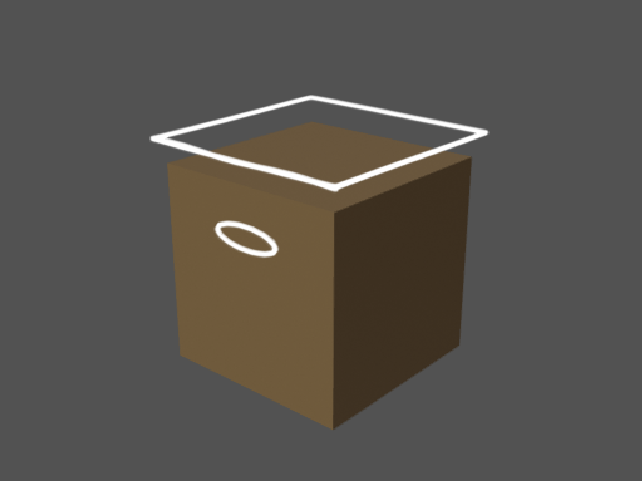
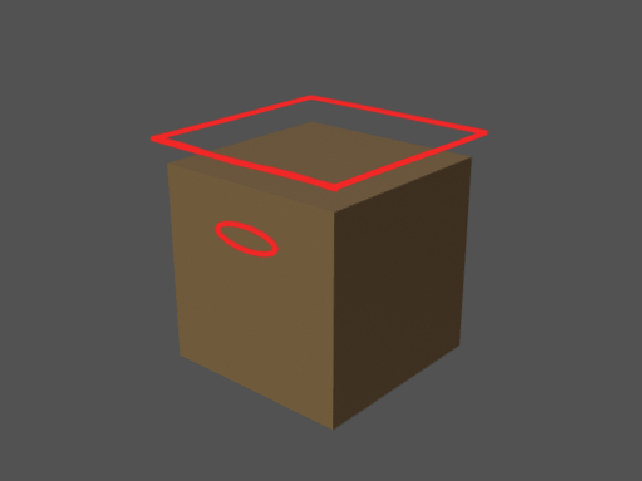
Draw sketch strokes in red
The sketch is a redline, so it should look like one, and white gets lost
on a pale model. New strokes take the new tint; layers an older file
holds keep their colours until a turn finishes or Clear. The images that
show strokes are reshot.

Changed region(s): [[0.2181, 0.2183, 0.6854, 0.4054], [0.4361, 0.1871, 0.7788, 0.3119], [0.3115, 0.4366, 0.4361, 0.5613]]

diff --git a/tests/blender/test_sketch.py b/tests/blender/test_sketch.py
@@ -42,7 +42,8 @@ class SketchTest(unittest.TestCase):
         layer = obj.data.layers[sketch.LAYER_NAME]
         self.assertFalse(layer.use_lights)
         self.assertEqual(layer.tint_factor, 1.0)
-        self.assertEqual(tuple(layer.tint_color), sketch.STROKE_COLOUR)
+        for got, want in zip(layer.tint_color, sketch.STROKE_COLOUR):
+            self.assertAlmostEqual(got, want, places=5)
 
     def test_reloading_replaces_strokes(self):
         sketch.load_strokes(bpy.context.scene, self.bundle.strokes)
@@ -113,6 +114,13 @@ class OlderFileTest(unittest.TestCase):
         self.obj = sketch.ensure_sketch_object(self.scene)
         add_stroke(self.obj, [(0, 0, 0), (1, 0, 0)], view=1, layer="free")
         add_stroke(self.obj, [(0, 0, 0), (0, 1, 0), (0, 2, 0)], view=1, layer="carve")
+
+    def test_older_layers_keep_their_colours(self):
+        white = (1.0, 1.0, 1.0)
+        self.obj.data.layers["free"].tint_color = white
+        sketch.ensure_sketch_layer(self.scene)
+        self.assertEqual(tuple(self.obj.data.layers["free"].tint_color), white)
+        self.assertLess(self.obj.data.layers[sketch.LAYER_NAME].tint_color[1], 0.1, "new strokes are red")
 
     def test_every_layer_is_read(self):
         self.assertEqual(sorted(len(s.points) for s in sketch.iter_strokes(self.obj)), [2, 3])

diff --git a/tests/blender/test_bundle.py b/tests/blender/test_bundle.py
@@ -153,10 +153,12 @@ class BundleTest(unittest.TestCase):
         x, y = views.to_pixel(self.view2, A_POINTS[4], 128, 96)
         self.assertAlmostEqual(patch_max(strokes, x, y, "alpha"), 0.5, delta=0.02, msg="its opacity")
         r, g, b, _a = patch_max(strokes, x, y, "rgb")
-        self.assertGreater(min(r, g, b), 0.9, "strokes are white")
+        self.assertGreater(r, 0.9, "strokes are red")
+        self.assertLess(max(g, b), 0.3, "strokes are red")
         row, col = overlay.shape[0] - 1 - int(y), int(x)
-        self.assertGreater(overlay[row, col, :3].sum(), overlay[row + 8, col, :3].sum() + 0.3,
-                           "over the render they lighten what they cross")
+        self.assertGreater(overlay[row, col, 0] - overlay[row, col, 1],
+                           overlay[row + 8, col, 0] - overlay[row + 8, col, 1] + 0.2,
+                           "over the render they redden what they cross")
 
     def test_scene_is_untouched(self):
         before = render.snapshot_settings(self.scene)

diff --git a/tests/blender/test_render.py b/tests/blender/test_render.py
@@ -101,8 +101,9 @@ class RenderTest(unittest.TestCase):
         strokes = render.load_pixels(data["strokes_path"])
         solid = strokes[strokes[..., 3] > 0.95][:, :3]
         self.assertGreater(len(solid), 20)
-        # Unlit strokes come out at full white, not darkened by Workbench lighting.
-        self.assertGreater(solid.min(axis=1).max(), 0.9)
+        # Unlit strokes come out at their full red, not darkened by Workbench lighting.
+        self.assertGreater(solid[:, 0].max(), 0.9)
+        self.assertLess(solid[:, 1:].max(), 0.3)
 
     def test_scene_is_left_unchanged(self):
         before = scene_state(self.scene)

diff --git a/whittle/addon/sketch.py b/whittle/addon/sketch.py
@@ -35,7 +35,9 @@ AMEND_ATTRIBUTE = "whittle_amend"
 FILL_ATTRIBUTE = "fill_id"
 # Built-in: a stroke with this set draws no outline.
 HIDE_ATTRIBUTE = "hide_stroke"
-STROKE_COLOUR = (1.0, 1.0, 1.0)
+# Redline red, in linear scene colour: it stays red over wood, grey clay and
+# the agent's grey backdrop.
+STROKE_COLOUR = (0.9, 0.02, 0.02)
 POLL_INTERVAL = 0.25
 # Every layer keeps its one drawing keyed at Blender's lowest frame, so the
 # sketch is the same wherever the playhead is and the draw tool, which paints

diff --git a/whittle/addon/render.py b/whittle/addon/render.py
@@ -21,7 +21,7 @@ from . import sketch as sketch_strokes
 CAMERA_NAME = "Whittle Render Camera"
 WIRE_MODIFIER = "_whittle_wire"
 # Renders are transparent; agent-facing images get a flat mid-grey backdrop so
-# white strokes and pale materials stay visible.
+# pale materials, and the white strokes of older files, stay visible.
 BACKGROUND = (0.32, 0.32, 0.32)
 # The render tool's own bounds (its schema says the same).
 MIN_SIZE = 64

diff --git a/docs/decisions.md b/docs/decisions.md
@@ -68,6 +68,7 @@ Resolutions of the open questions in `design.md` §10, plus environment facts.
 - **One style guide, in a file** (2026-11-05): a single setting, Style Notes, holds the path to a `.md` or `.txt` file, and replaces the Palette, Bevel Style and Style Notes text fields. Empty means no guide, and the agent chooses. Why: the three overlapped, so nobody could tell what went where, and the docs did not settle it. A text box also lives in one `.blend`, and real work spans many: a large game has a general art style, different guidelines per faction and further splits per culture, across hundreds of `.blend` files and some twenty style notes that all reference many of the same files. A file on disk is written once and shared, and `//` paths let a project folder move. It stays a session setting, so a preference can set the default and a file its own. The guide reaches the agent as the user's preferences for the file, applied with judgement, not as rules; since it is a plain file that may be shared, the system prompt also says it speaks to the look only. The new key, `style_file`, means old inline text is never read as a path. Old values are not migrated: old preferences and scene keys are ignored, and files and bundles holding `palette`, `bevel_style` or `style_notes` still load.
 - **Guide paths survive a repository's moves** (2026-11-05): a backslash in a relative path, `//` or an `@` import, reads as a separator on every platform, and a save into another folder rewrites each scene's `//` Style Notes to name the same file. Why: the `.blend` files and guides of a project live in one repository, cloned at different paths on Windows and Linux, and Blender only remaps its own path fields. A rooted path (drive, UNC, `\folder`) is left alone: `\\server` made `//server` would read as relative to the `.blend`. The cost is that a relative path cannot name a file with a backslash in its name, and a rewrite that would write one, from a folder so named on Linux or macOS, gives the absolute path instead. The rewrite is string maths from the old and new folders and never reads the guide, since the path comes from the file and saving is no reason to go where it leads; only the two `.blend` folders have their symlinks resolved, because a read's `..` walks up from a folder's real place, where Blender's own remap stays textual. An undo or redo across the Save As rewrites the path again, unlike an image path: a step from before it holds the old text, and counted from the new folder that can name another project's guide with no warning, and what it names goes to the API. Stamps beside the text say which folder it counts from, and they are for the session only, as a stamp read from a file could not tell an undo from a repository cloned elsewhere. A copy gets the new text and the open file keeps its own, the way `relative_remap` treats images. The preferences' `//` path stays: it is relative to whichever `.blend` is open. The agent's restart check ignores the path and compares the guide's text, which is all the agent gets, so a Save As restarts nothing. A move outside Blender cannot be followed: no save happens, and a `.blend` opened from a new place looks the same as a repository cloned elsewhere.
 - **Imports are whole lines** (2026-11-05): a guide imports another with a line holding only `@path`, after trimming whitespace, and never inside a fenced code block. A path with a space in it has to end in `.md` or `.txt`. Why: guides are prose, and prose has email addresses and handles in it; an `@` anywhere in a line would turn those into imports, each one a false warning or worse, a file sent that nobody asked for. A whole line also says exactly where the text goes: it replaces the line, so the author controls the order. Paths are relative to the file importing, so a folder of guides works from any `.blend`. A file reached twice counts the first time only, so a shared base is not repeated, which also ends import loops with no case of their own.
+- **A lone `@word` line warns** (2026-11-06): a line holding nothing but `@word`, such as a handle alone on a line, is read as an import like any other, and warns that it was refused, since `word` is not a `.md` or `.txt` file. Why: the line has exactly the shape of an import, so telling the two apart would be a guess, and staying quiet would hide a mistyped import, which leaves part of the guide unsent. A warning costs a look and sends nothing.
 - **Only `.md` and `.txt` load, 128 KiB in all** (2026-11-05): judged on the path with its symlinks resolved, regular files only, and the files loaded are listed in the agent popover. Why: a `.blend` stores the path, and what loads goes to the API, so a file from someone else could point at a private file on the user's machine, directly or through an `@` line, and send its contents with the next turn. Private keys and credentials do not end in `.md`, and a `notes.md` link to one is refused because the check runs after the link is followed. This narrows the risk, and does not end it: a private `.md` file can still load, which is why the list shows everything being sent. The cap bounds what a guide can add to every turn; past it, loading stops with a warning.
 - **A guide never fails a turn** (2026-11-05): a missing or unreadable file or a refused import, the top-level file included, is a warning in the sidebar and one line telling the agent that part of the guide is missing; the turn runs with what loaded. Why: a guide is guidance, and a moved file should not stop the work. The agent gets a yes or no, not the problems, so local paths do not reach the API that way.
 - **Opening a file reads nothing it names** (2026-11-05): `load_post` reads only the preferences' own guide, and the field offers **Read Now** for the file's. Why: the path is the file's and nothing the user did asked for it. On Windows, opening `\\host\share\x.md` can hand a stranger the user's NTLM credentials, and on any platform a dead share blocks the UI until it times out; Blender's Auto Run does not gate this. Sends and saves still read, including from shares, since studios keep guides there. Rejected: reading on a worker thread, which ends the blocking but not the connection; refusing UNC paths at load, which misses `/net/host/x.md` under autofs. The cost is that the list is empty until asked for, which is what the button is for.
@@ -81,9 +82,10 @@ Resolutions of the open questions in `design.md` §10, plus environment facts.
 - **Panel popup, not a props dialog**: in `invoke_props_dialog` the first Enter only ends text editing and a second presses the dialog's button. In a panel popup Enter confirms the field and closes the popup on the press, so the release reaches `whittle.enter_send` and one Enter sends, exactly like the sidebar's box. Checked in a GUI Blender with `--enable-event-simulate`: Shift+Alt+C, typing and Enter sends a prompt, an amendment and an answer with the fake agent, in Object Mode, Edit Mode and sketching; Esc sends nothing and keeps a draft.
 
 ## Sketching
-- **One plain stroke** (2026-11-05): a stroke is just a stroke. It is white and goes on one Grease Pencil layer, with nothing to pick before drawing. Why: Whittle started as a replacement for the 3D object functionality of Claude Design, where the only sketch markup was redlines. Those were simple but highly effective, because the text of the prompt steered Claude in the right direction: the mark says where, the words say what. The stroke types of `design.md` §3 (free, add, carve, crease, region and note, each with a layer, colour, meaning, icon and sidebar button, and Shift+Alt+N to step through them) were built and then removed: they were not useful in practice and they cluttered the UI. The system prompt's "Reading the sketch" tells the agent that strokes are markup whose meaning comes from the prompt, with a stroke's shape and what it lies on as its guide when the prompt says little.
-- **No format bump**: `request.json` lost `stroke_types` and each `strokes.json` entry lost `type`, but `formats.VERSION` stays 1, because `_check_header` rejects any other version and older chats would stop opening. The validators ignore the old keys and `from_json` reads only known fields, so older session folders and chats still read; their strokes come back on the one layer, white.
-- **Older `.blend` files need no migration**: the old per-type layers stay in the file, and every layer of the sketch object is read, so those strokes are still counted, sent, stamped, removed by a finished turn and wiped by Clear. They keep their old colours and fills until then. A layer someone added to the sketch object by hand is read too.
+- **One plain stroke** (2026-11-05): a stroke is just a stroke. It goes on one Grease Pencil layer, with nothing to pick before drawing. Why: Whittle started as a replacement for the 3D object functionality of Claude Design, where the only sketch markup was redlines. Those were simple but highly effective, because the text of the prompt steered Claude in the right direction: the mark says where, the words say what. The stroke types of `design.md` §3 (free, add, carve, crease, region and note, each with a layer, colour, meaning, icon and sidebar button, and Shift+Alt+N to step through them) were built and then removed: they were not useful in practice and they cluttered the UI. The system prompt's "Reading the sketch" tells the agent that strokes are markup whose meaning comes from the prompt, with a stroke's shape and what it lies on as its guide when the prompt says little.
+- **Strokes are red** (2026-11-06): `sketch.STROKE_COLOUR` is a redline red, not the white the plain stroke started as. Why: the sketch is a redline, so it should look like one, and white gets lost on a pale model. Red reads on a wooden crate and on the agent's grey backdrop alike, in the viewport and in the overlays. The colour still means nothing, as the system prompt tells the agent.
+- **No format bump**: `request.json` lost `stroke_types` and each `strokes.json` entry lost `type`, but `formats.VERSION` stays 1, because `_check_header` rejects any other version and older chats would stop opening. The validators ignore the old keys and `from_json` reads only known fields, so older session folders and chats still read; their strokes come back on the one layer, red. The check is strict, so a bump would refuse every request v0.1.0 stored.
+- **Older `.blend` files need no migration**: the old per-type layers stay in the file, and every layer of the sketch object is read, so those strokes are still counted, sent, stamped, removed by a finished turn and wiped by Clear. They keep their old colours and fills until then, the white of the old `free` layer included: only `Strokes`, the layer new strokes go on, is tinted red, and that tint is set each time the layer is used. A layer someone added to the sketch object by hand is read too.
 - **Skill names stay**: `boolean-carve` and `bevel-crease` name the modeling technique. Their descriptions now say when a stroke marks material to remove or a hard edge.
 
 ## Sketch keys and view markers

diff --git a/docs/ui.md b/docs/ui.md
@@ -1533,7 +1533,7 @@ width and, for `conversation`, `markdown` and `long_session`, the wide variant t
 | `delete_confirm` | the confirmation of 🗑 on a chat: its title, turns and size, "leaves this file the next time you save" |
 | `delete_many` | the Delete Chats dialog on `Older Than a Month`, with the count and size line |
 | `model_menu` | the model menu over a chat on Sonnet 5.5: Opus 5.5, Sonnet 5.5 (✓), Haiku 5.5, Fable 5.1, then Older Models ▸ and Other Model…, the dim Effort heading, Low, Medium, High (✓), `Use Sonnet 5.5 for New Chats`, the dim source line `Listed by the Models API 1 hour ago`; names whole, icons in one column; no item hovered |
-| `hero` | the whole window at 1600×1000, no desktop around it: the crate with its lid and rope handles in matcap shading, no selection outlines; white strokes over it (the latch's outline, a slot, an edge, a side panel and an arrow); the sidebar widened, in sketch mode, scrolled to its end: the last turn with its render, the sketch row, `6 strokes · 2 views`, the prompt typed |
+| `hero` | the whole window at 1600×1000, no desktop around it: the crate with its lid and rope handles in matcap shading, no selection outlines; red strokes over it (the latch's outline, a slot, an edge, a side panel and an arrow); the sidebar widened, in sketch mode, scrolled to its end: the last turn with its render, the sketch row, `6 strokes · 2 views`, the prompt typed |
 | `model_menu_older` | the Older Models submenu with the chat on Opus 4.6: one column per family under its dim name, newest first, ✓ on Opus 4.6; no title or rule over the first column alone |
 
 Popover and menu scenarios end by returning a `Popup` (`tests/screens/scenarios.py`):
@@ -1552,4 +1552,5 @@ General checks on every shot: no text clipped by Blender's own `...` at 280 px (
 shortens with `…` at a word's end), except inside a one-line text field; nothing said
 twice (a draft, a busy sign, a list and its heading); no row wider than the sidebar;
 text lines use the width they have; red only in `error_turn`, `folded_failure`,
-`too_large` and `crashed`.
+`too_large` and `crashed`, apart from the strokes themselves, which are red wherever a
+viewport or render shows them.

diff --git a/docs/architecture.md b/docs/architecture.md
@@ -679,8 +679,8 @@ never left changed.
 - Resolution: `size` on the long side, the view's aspect kept (square for a `camera`
   param). `view_transform = "Standard"` so stroke colours stay flat. Renders are made with
   `film_transparent = True`, then every agent-facing PNG is flattened over a mid-grey
-  backdrop (`render.BACKGROUND`), because a transparent background hides white strokes
-  and pale materials. `strokes.png` stays transparent.
+  backdrop (`render.BACKGROUND`), because a transparent background hides pale materials
+  and the white strokes older files can hold. `strokes.png` stays transparent.
 - Camera: a temporary object `"Whittle Render Camera"` with fresh camera data, built
   from `camera.json` (§8) or from the `camera` param, set as `scene.camera`, and removed
   (object and data) afterwards.
@@ -1178,8 +1178,8 @@ Modules: `addon/sketch.py` (object, layers, tags, the sketch session), `addon/vi
   on one layer, `sketch.LAYER_NAME` (`"Strokes"`), made with
   `layers.new(name, set_active=False)`; `ensure_sketch_layer` always makes it active, so
   the draw tool lands there. Its one drawing is keyed at `SKETCH_FRAME`, Blender's lowest
-  frame, so the sketch is the same wherever the playhead is. Strokes are white:
-  `layer.tint_color` with `tint_factor = 1.0` over one shared white stroke material
+  frame, so the sketch is the same wherever the playhead is. Strokes are red, as in a redline (`sketch.STROKE_COLOUR`):
+  `layer.tint_color` with `tint_factor = 1.0` over one shared stroke material
   `"Whittle Stroke"` (`bpy.data.materials.create_gpencil_data`), so a brush's own colour
   never shows. The layer sets `use_lights = False`: lit strokes render at about a quarter
   of their tint in Workbench (a pure green tint read back as 0.25). Every layer of the

diff --git a/docs/site/guides/sketching.md b/docs/site/guides/sketching.md
@@ -40,7 +40,7 @@ Your strokes stay, and you can pick up where you left off.
 
 ## Say what the strokes mean
 
-Every stroke is the same plain white line, like a redline on a drawing. The prompt is what
+Every stroke is the same plain red line, like a redline on a drawing. The prompt is what
 tells Claude what it means, so one kind of mark does every job: "cut a slot here", "build
 the lid out to this line", "sharpen this edge" or "paint this panel". When strokes mean
 different things, say which is which: "the loop is a slot, the line is an edge to sharpen".
@@ -100,7 +100,7 @@ While you sketch, a small camera marks each view in the viewport, pointing the w
 view looked.
 
 ```{figure} ../images/guides-sketching/view-markers.png
-:alt: The viewport pulled back from the crate. A white outline and a small white loop are drawn on the crate, and two small wireframe cameras float around it, one blue and one light grey, each pointing at it.
+:alt: The viewport pulled back from the crate. A red outline and a small red loop are drawn on the crate, and two small wireframe cameras float around it, one blue and one light grey, each pointing at it.
 
 Two view markers. The blue one is the current view.
 ```

diff --git a/docs/site/walkthrough.md b/docs/site/walkthrough.md
@@ -97,7 +97,7 @@ Orbit to the front of the crate and draw five strokes:
 - an arrow pointing at the latch, in two strokes: the shaft, then the head
 
 ```{figure} images/walkthrough/sketch-front.png
-:alt: The crate from the front, drawn over in white: an outline below the lid, a slot on the lid, a line along the lid's front edge and an arrow pointing at the outline.
+:alt: The crate from the front, drawn over in red: an outline below the lid, a slot on the lid, a line along the lid's front edge and an arrow pointing at the outline.
 
 Five strokes from the first view: the arrow is two of them.
 ```
@@ -107,7 +107,7 @@ The side panel can't be seen from here, so orbit round to the side. Press **Capt
 different angle records one for you. Outline the panel.
 
 ```{figure} images/walkthrough/sketch-side.png
-:alt: The crate from its left side with a white outline drawn low on the side. The earlier strokes can be seen edge-on at the top right.
+:alt: The crate from its left side with a red outline drawn low on the side. The earlier strokes can be seen edge-on at the top right.
 
 An outline from the second view. The first view's strokes stay where they were drawn.
 ```

diff --git a/docs/site/develop/agent-tools.md b/docs/site/develop/agent-tools.md
@@ -143,7 +143,7 @@ its error lists the turn's view ids. A `view` render keeps that view's aspect, a
 square.
 
 ```{figure} ../images/develop-agent-tools/render-modes.png
-:alt: Four renders of a crate with a lid from one sketch view, in a two by two grid. Top left, overlay, with a white outline around the lid and a white oval on the side. Top right, shaded. Bottom left, wireframe, with the crate as thin lines and the lid solid. Bottom right, matcap.
+:alt: Four renders of a crate with a lid from one sketch view, in a two by two grid. Top left, overlay, with a red outline around the lid and a red oval on the side. Top right, shaded. Bottom left, wireframe, with the crate as thin lines and the lid solid. Bottom right, matcap.
 
 The four modes from one sketch view, as the agent gets them: overlay and shaded on top,
 wireframe and matcap below. The crate is the target. The lid was made this turn, so it is not a

diff --git a/README.md b/README.md
@@ -15,7 +15,7 @@ newer than the latest release.
 
 I made this because Claude Design is going away, and I found it extremely useful for quick modeling tasks when using my Wacom tablet to draw redlines over a 3D object. This project is the evolution of that feature. Everything here has been vibe coded over the course of a few days, so don’t expect it to be perfect - but it does everything I need it to, so I’m happy with it.
 
-![Blender with a wooden crate in the 3D viewport, sketched over in white strokes: an
+![Blender with a wooden crate in the 3D viewport, sketched over in red strokes: an
 outline where a latch should go, a slot to carve into the lid, a line along the lid's edge,
 a panel on the side and an arrow. Beside it the Whittle sidebar shows
 the earlier turns with their renders and the next prompt, ready to send](docs/images/hero.png)
